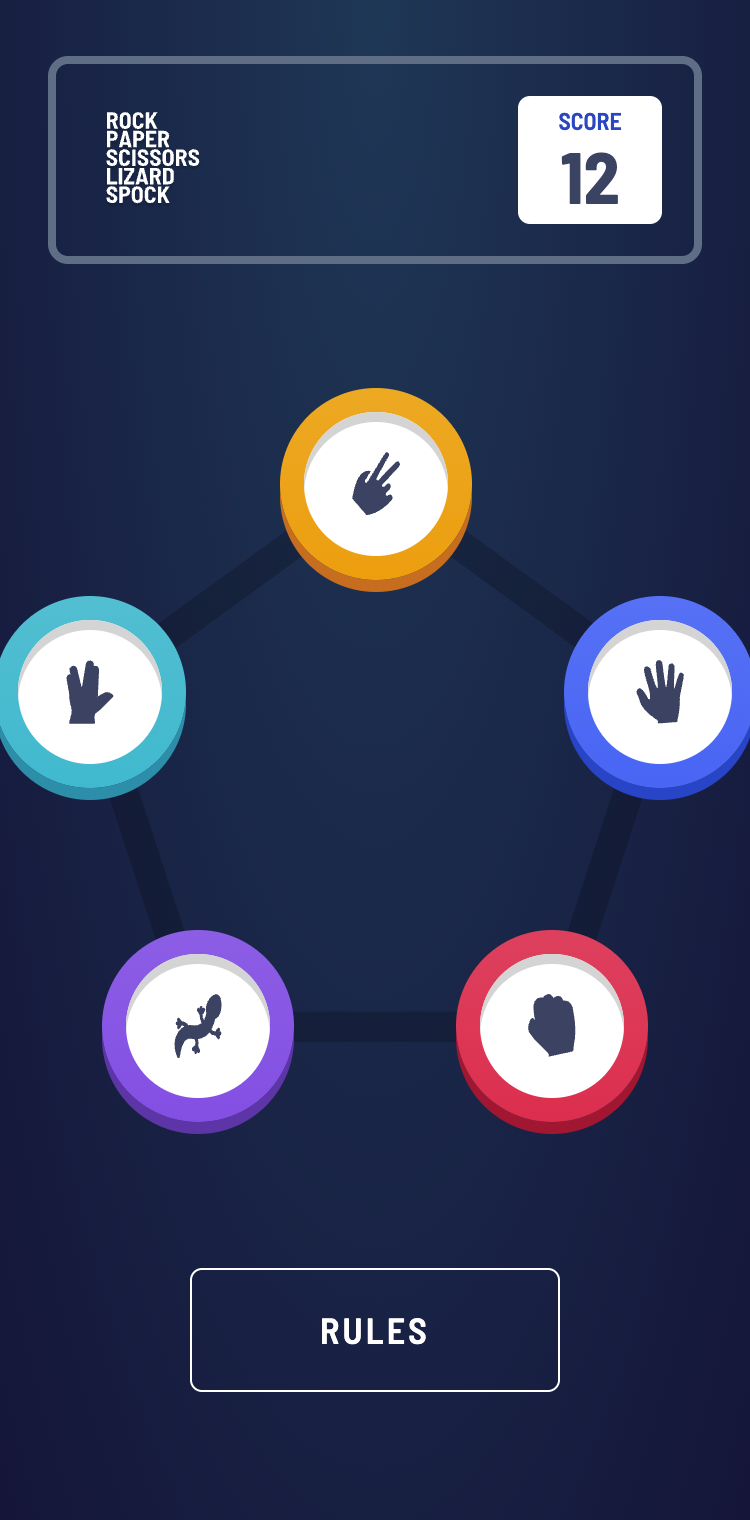
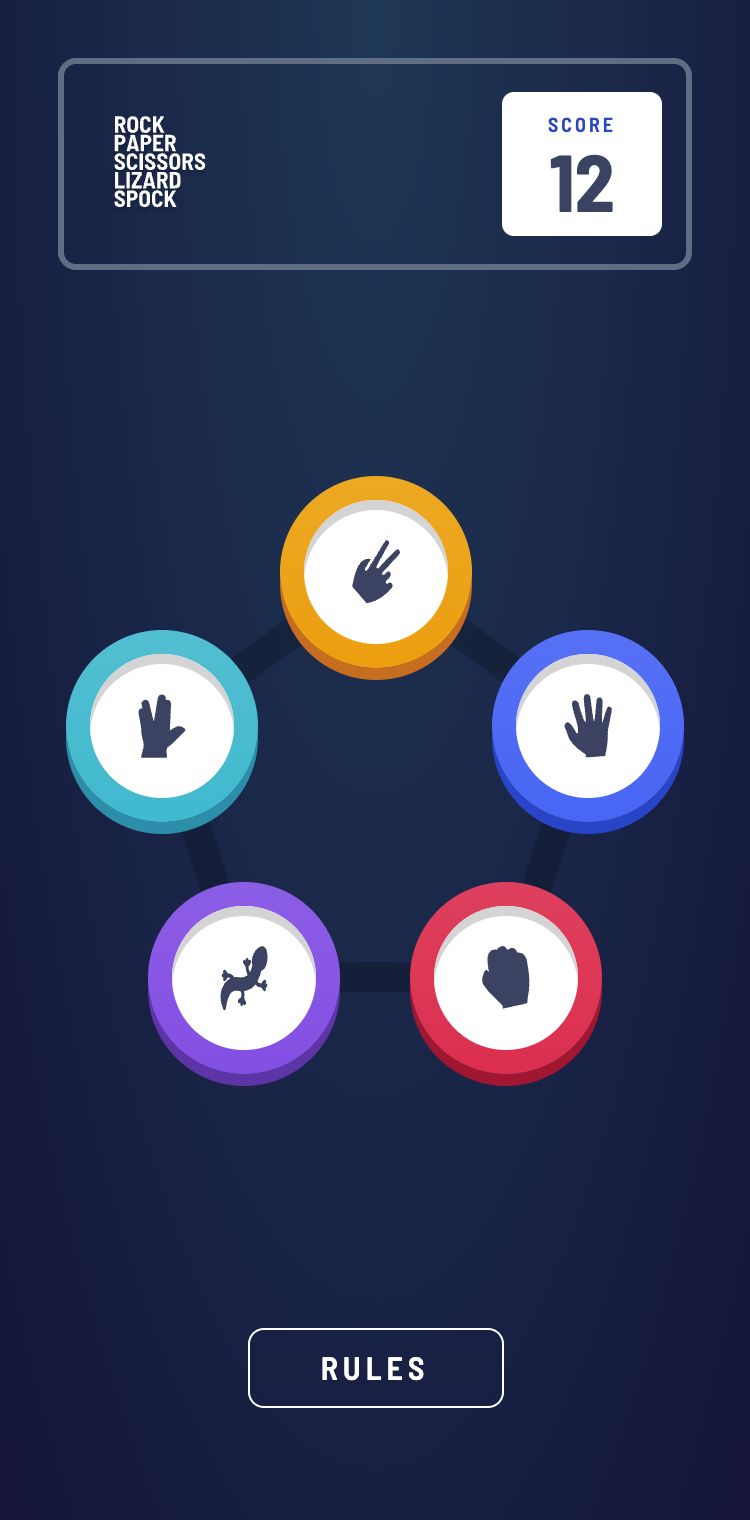
fix: match the design sizes and make the layout responsive
Measured against the 375 px and 1366 px mockups; now within a few pixels.

- Mobile pentagon no longer overflows the screen (radius 112, was 150);
  desktop options 144 px (was 125). Positions are in percent of the board
- Result picks at design size (130 / 200 / 293 px), labels above from md,
  outcome between the picks; result no longer wider than a 375 px screen
- Header 311x100 / 700x150, score box 80x72 / 150x114, SCORE label weight
  that is actually loaded; Play again 220x48; Rules 128x40 and always shown
- Layout in normal flow instead of absolute positioning, one breakpoint (md),
  and tighter spacing on short screens: no overlap or horizontal scroll from
  320x568 to 1920x1080, including phone landscape
- Buttons/Button components folded into Game and Result

diff --git a/src/views/Result.tsx b/src/views/Result.tsx
@@ -1,6 +1,6 @@
-import { memo } from "react";
+import { memo, type ReactNode } from "react";
 import { Option, Roulette, WinnerRings } from "../components";
-import { TEXTS } from "../utils/constants.ts";
+import { OUTCOME_TEXT, TEXTS } from "../utils/constants.ts";
 import type { GameOption, Outcome } from "../utils/types.ts";
 
 interface ResultProps {
@@ -8,6 +8,7 @@ interface ResultProps {
   houseOption: GameOption;
   /** `null` while the roulette is still spinning. */
   outcome: Outcome | null;
+  onPlayAgain: () => void;
 }
 
 type Standing = "winner" | "loser" | "even";
@@ -28,21 +29,52 @@ const Pick = ({ option, status, pop }: { option: GameOption; status: Standing; p
   </div>
 );
 
-const Result = memo(({ userOption, houseOption, outcome }: ResultProps) => (
-  <div className="flex w-sm justify-around animate-fade-in lg:mt-[10%] lg:w-full lg:justify-between">
-    <div className="relative flex flex-col items-center justify-center lg:w-120 lg:scale-[1.5]">
-      <Pick option={userOption} status={standing(outcome, "user")} />
-      <span className="mt-7 text-white lg:text-4xl">{TEXTS.PICKED}</span>
+/**
+ * One side of the board. The 96 px option is scaled to the design size
+ * (130 px mobile, 200 px tablet, 293 px desktop) inside a slot of that size,
+ * so layout and scale agree. The label sits below on mobile, above from md.
+ */
+const Side = ({ label, className, children }: { label: string; className: string; children: ReactNode }) => (
+  <div className={`flex flex-col items-center gap-6 md:flex-col-reverse md:gap-12 lg:gap-16 ${className}`}>
+    <div className="flex size-[130px] items-center justify-center md:size-[200px] lg:size-[293px]">
+      <div className="scale-[1.354] md:scale-[2.083] lg:scale-[3.052]">{children}</div>
     </div>
+    <span className="text-[15px] font-bold tracking-[1.875px] whitespace-nowrap text-white max-[359px]:text-[13px] max-[359px]:tracking-[1px] md:text-xl md:tracking-[2.5px] lg:text-2xl lg:tracking-[3px]">
+      {label}
+    </span>
+  </div>
+);
 
-    <div className="flex flex-col items-center justify-center lg:w-120 lg:scale-[1.5]">
+const Result = memo(({ userOption, houseOption, outcome, onPlayAgain }: ResultProps) => (
+  // Mobile: picks side by side, outcome below. From md: pick, outcome, pick.
+  <div className="mt-12 grid w-full max-w-78 animate-fade-in grid-cols-2 items-start justify-items-center gap-y-20 short:mt-0 short:gap-y-8 md:mt-8 md:max-w-235 md:grid-cols-[200px_1fr_200px] md:items-center lg:grid-cols-[293px_1fr_293px]">
+    <Side label={TEXTS.PICKED} className="col-start-1 row-start-1">
+      <Pick option={userOption} status={standing(outcome, "user")} />
+    </Side>
+
+    <Side label={TEXTS.HOUSE_PICKED} className="col-start-2 row-start-1 md:col-start-3">
       {outcome ? (
         <Pick option={houseOption} status={standing(outcome, "house")} pop />
       ) : (
         <Roulette target={houseOption} />
       )}
-      <span className="mt-7 text-white lg:text-4xl">{TEXTS.HOUSE_PICKED}</span>
-    </div>
+    </Side>
+
+    {outcome && (
+      <div className="col-span-2 row-start-2 flex flex-col items-center md:col-span-1 md:col-start-2 md:row-start-1 md:self-center md:pt-16">
+        {/* Rises in after the winner's rings (see "Result reveal" in index.css). */}
+        <h2 className="reveal-rise text-[56px] leading-none font-bold text-white [--rise-delay:700ms]" aria-live="polite">
+          {OUTCOME_TEXT[outcome]}
+        </h2>
+        <button
+          type="button"
+          className="reveal-rise mt-4 h-12 w-55 cursor-pointer rounded-lg bg-white text-base tracking-[2.5px] text-neutral-dark transition-colors [--rise-delay:850ms] hover:text-primary-rock focus-visible:outline-4 focus-visible:outline-offset-2 focus-visible:outline-white"
+          onClick={onPlayAgain}
+        >
+          {TEXTS.PLAY_AGAIN}
+        </button>
+      </div>
+    )}
   </div>
 ));
 

diff --git a/src/Game.tsx b/src/Game.tsx
@@ -1,7 +1,7 @@
 import { useCallback, useState } from "react";
 import { TEXTS } from "./utils/constants.ts";
 import { useGame } from "./hooks/useGame.ts";
-import { Buttons, Rules, Score } from "./components";
+import { Rules, Score } from "./components";
 import { Result, Selection } from "./views";
 
 const Game = () => {
@@ -11,20 +11,32 @@ const Game = () => {
   const openRules = useCallback(() => setShowRules(true), []);
   const closeRules = useCallback(() => setShowRules(false), []);
 
-  const outcome = state.phase === "result" ? state.outcome : null;
-
   return (
-    <main className="relative flex min-h-dvh flex-col items-center justify-center overflow-hidden bg-radial-[at_50%_0%] from-primary-radial to-secondary-radial p-10">
+    // Normal flow (header, board, Rules), so nothing overlaps on short screens.
+    <main className="relative flex min-h-dvh flex-col items-center overflow-hidden bg-radial-[at_50%_0%] from-primary-radial to-secondary-radial px-8 pt-8 pb-14 md:pt-12 md:pb-8">
       <h1 className="sr-only">{TEXTS.TITLE}</h1>
       <Score score={score} />
 
-      {state.phase === "picking" ? (
-        <Selection onSelect={pick} />
-      ) : (
-        <Result userOption={state.user} houseOption={state.house} outcome={outcome} />
-      )}
+      <div className="flex w-full flex-1 items-center justify-center py-12 short:py-0 md:py-0">
+        {state.phase === "picking" ? (
+          <Selection onSelect={pick} />
+        ) : (
+          <Result
+            userOption={state.user}
+            houseOption={state.house}
+            outcome={state.phase === "result" ? state.outcome : null}
+            onPlayAgain={playAgain}
+          />
+        )}
+      </div>
 
-      <Buttons outcome={outcome} onPlayAgain={playAgain} onShowRules={openRules} />
+      <button
+        type="button"
+        className="h-10 w-32 shrink-0 cursor-pointer rounded-lg border border-white text-base tracking-[2.5px] text-white focus-visible:outline-4 focus-visible:outline-offset-2 focus-visible:outline-white md:self-end"
+        onClick={openRules}
+      >
+        {TEXTS.RULES}
+      </button>
       <Rules show={showRules} onClose={closeRules} />
     </main>
   );

diff --git a/src/components/Rules.tsx b/src/components/Rules.tsx
@@ -43,23 +43,23 @@ const Rules = ({ show, onClose }: RulesProps) => {
   return (
     <div
       data-testid="rules-backdrop"
-      className="fixed inset-0 z-50 flex animate-fade-in items-center justify-center bg-white lg:bg-black/50"
+      className="fixed inset-0 z-50 flex animate-fade-in items-center justify-center bg-white md:bg-black/50"
       onClick={onClose}
     >
       <div
         role="dialog"
         aria-modal="true"
         aria-labelledby="rules-title"
-        className="flex h-full w-full flex-col items-center justify-around py-20 lg:grid lg:h-auto lg:w-100 lg:grid-cols-[1fr_auto] lg:gap-y-12 lg:rounded-lg lg:bg-white lg:p-8"
+        className="flex h-full w-full flex-col items-center justify-between pt-24 pb-16 md:grid md:h-auto md:w-100 md:grid-cols-[1fr_auto] md:gap-y-12 md:rounded-lg md:bg-white md:p-8"
         onClick={(event) => event.stopPropagation()}
       >
-        <h2 id="rules-title" className="text-4xl font-bold text-neutral-dark lg:self-center">
+        <h2 id="rules-title" className="text-4xl font-bold text-neutral-dark md:self-center">
           {TEXTS.RULES}
         </h2>
         <div
           role="img"
           aria-label={RULES_ALT}
-          className="w-full max-w-84 lg:col-span-2 lg:row-start-2 lg:justify-self-center [&>svg]:h-auto [&>svg]:w-full"
+          className="w-full max-w-84 md:col-span-2 md:row-start-2 md:justify-self-center [&>svg]:h-auto [&>svg]:w-full"
           // Static asset bundled with the app, not user input.
           dangerouslySetInnerHTML={{ __html: rulesSvg }}
         />
@@ -67,7 +67,7 @@ const Rules = ({ show, onClose }: RulesProps) => {
           ref={closeButton}
           type="button"
           aria-label="Close rules"
-          className="cursor-pointer rounded p-2 focus-visible:outline-2 focus-visible:outline-neutral-dark lg:col-start-2 lg:row-start-1"
+          className="cursor-pointer rounded p-2 focus-visible:outline-2 focus-visible:outline-neutral-dark md:col-start-2 md:row-start-1"
           onClick={onClose}
         >
           <img src={closeImg} alt="" />

diff --git a/src/views/Selection.tsx b/src/views/Selection.tsx
@@ -1,6 +1,5 @@
 import { memo } from "react";
 import { Option } from "../components";
-import { PENTAGON_RADIUS } from "../utils/constants.ts";
 import { getPentagonPoints } from "../utils/functions.ts";
 import type { GameOption } from "../utils/types.ts";
 
@@ -8,22 +7,32 @@ interface SelectionProps {
   onSelect: (option: GameOption) => void;
 }
 
-// The geometry never changes, so it is computed once.
-const POINTS = getPentagonPoints(PENTAGON_RADIUS);
-const SIZE = PENTAGON_RADIUS * 2;
+// my-12: room for the half of each option that sticks out of the board.
+// Nudged down from md to match the design (translate, so it takes no layout space).
+// Positions in percent of the board, so the board can be sized in CSS:
+// 224 px on mobile and 344 px from md (the design's pentagon radius 112 / 172).
+const POINTS = getPentagonPoints(50);
 const OUTLINE = POINTS.map(({ x, y }) => `${x},${y}`).join(" ");
 
 const Selection = memo(({ onSelect }: SelectionProps) => (
-  <div role="group" aria-label="Pick your move" className="relative mt-6 animate-fade-in lg:mt-40">
-    <svg height={SIZE} width={SIZE} aria-hidden="true">
-      <polygon points={OUTLINE} fill="none" stroke="#000" strokeWidth="15" opacity=".2" />
+  <div role="group" aria-label="Pick your move" className="relative my-12 size-56 animate-fade-in md:my-0 md:size-86 md:translate-y-10">
+    <svg viewBox="0 0 100 100" className="size-full overflow-visible" aria-hidden="true">
+      <polygon
+        points={OUTLINE}
+        fill="none"
+        stroke="#000"
+        strokeWidth="15"
+        vectorEffect="non-scaling-stroke"
+        opacity=".2"
+      />
     </svg>
 
     {POINTS.map(({ x, y, option }) => (
       <div
         key={option.name}
-        className="absolute -translate-x-1/2 -translate-y-1/2"
-        style={{ left: x, top: y }}
+        // 96 px option, 144 px from md (design: 145 px).
+        className="absolute -translate-x-1/2 -translate-y-1/2 md:scale-150"
+        style={{ left: `${x}%`, top: `${y}%` }}
       >
         <Option option={option} onSelect={onSelect} />
       </div>

diff --git a/src/components/Score.tsx b/src/components/Score.tsx
@@ -5,12 +5,19 @@ interface ScoreProps {
   score: number;
 }
 
+// Design: 311×100 on mobile, 700×150 from md; score box 80×72 / 150×114.
 const Score = ({ score }: ScoreProps) => (
-  <header className="absolute top-5 z-10 m-3 flex w-85/100 max-w-175 justify-between rounded-md p-4 outline-4 outline-neutral-outline">
-    <img className="h-16 p-2 md:h-30" src={gameLogo} alt={TEXTS.TITLE} />
-    <div className="flex h-16 w-1/4 flex-col justify-center rounded-md bg-white text-center md:h-30 md:w-40">
-      <span className="text-xs font-light text-neutral-score">{TEXTS.SCORE}</span>
-      <span className="text-4xl font-bold text-neutral-dark md:text-6xl" aria-live="polite" data-testid="score">
+  <header className="relative z-10 flex w-full max-w-175 items-center justify-between rounded-md py-3.5 pr-3 pl-6 outline-3 outline-neutral-outline md:rounded-2xl md:py-4.5 md:pr-6 md:pl-8">
+    <img className="h-12 md:h-28" src={gameLogo} alt={TEXTS.TITLE} />
+    <div className="flex h-18 w-20 flex-col items-center justify-center rounded-md bg-white md:h-28.5 md:w-37.5 md:rounded-lg">
+      <span className="text-[10px] font-semibold tracking-[1.5px] text-neutral-score md:text-base md:tracking-[2.5px]">
+        {TEXTS.SCORE}
+      </span>
+      <span
+        className="text-[40px] leading-none font-bold text-neutral-dark md:text-[64px]"
+        aria-live="polite"
+        data-testid="score"
+      >
         {score}
       </span>
     </div>

diff --git a/src/components/index.ts b/src/components/index.ts
@@ -1,5 +1,5 @@
-export {default as Option} from './Option';
-export {default as Buttons} from './Buttons';
-export {default as Score} from './Score';
-export {default as Rules} from './Rules';
-export {default as Roulette} from './Roulette';export {default as WinnerRings} from './WinnerRings';
+export { default as Option } from "./Option";
+export { default as Score } from "./Score";
+export { default as Rules } from "./Rules";
+export { default as Roulette } from "./Roulette";
+export { default as WinnerRings } from "./WinnerRings";

diff --git a/src/components/Roulette.tsx b/src/components/Roulette.tsx
@@ -55,7 +55,7 @@ const Roulette = ({ target }: RouletteProps) => {
       {reduceMotion ? (
         <div
           aria-hidden="true"
-          className="h-24 w-24 animate-pulse rounded-full bg-secondary-radial lg:scale-[1.3]"
+          className="h-24 w-24 animate-pulse rounded-full bg-secondary-radial"
         />
       ) : (
         // Remounting on every step replays the "tick" animation.

diff --git a/src/components/WinnerRings.tsx b/src/components/WinnerRings.tsx
@@ -5,7 +5,7 @@
 const RINGS = ["-inset-[20%]", "-inset-[45%]", "-inset-[75%]"] as const;
 
 const WinnerRings = () => (
-  <div data-testid="winner-rings" aria-hidden="true" className="absolute inset-0 lg:scale-[1.3]">
+  <div data-testid="winner-rings" aria-hidden="true" className="absolute inset-0">
     {RINGS.map((inset, i) => (
       <span
         key={inset}

diff --git a/src/components/Option.tsx b/src/components/Option.tsx
@@ -7,7 +7,7 @@ interface OptionProps {
 }
 
 const BASE =
-  "relative flex h-24 w-24 items-center justify-center rounded-full border-none lg:scale-[1.3]";
+  "relative flex h-24 w-24 items-center justify-center rounded-full border-none";
 
 const Option = ({ option, onSelect }: OptionProps) => {
   const content = (

diff --git a/src/index.css b/src/index.css
@@ -1,5 +1,8 @@
 @import "tailwindcss";
 
+/* Short screens (small phones, landscape): tighter vertical spacing. */
+@custom-variant short (@media (max-height: 700px));
+
 @theme {
     --font-barlow: 'Barlow Semi Condensed';
 

diff --git a/src/utils/constants.ts b/src/utils/constants.ts
@@ -68,6 +68,5 @@ export const TEXTS = {
 /** Time the house "thinks" before revealing its pick. */
 export const REVEAL_DELAY_MS = 2000;
 
-export const PENTAGON_RADIUS = 150;
 
 export const SCORE_STORAGE_KEY = "rpsls:score";
